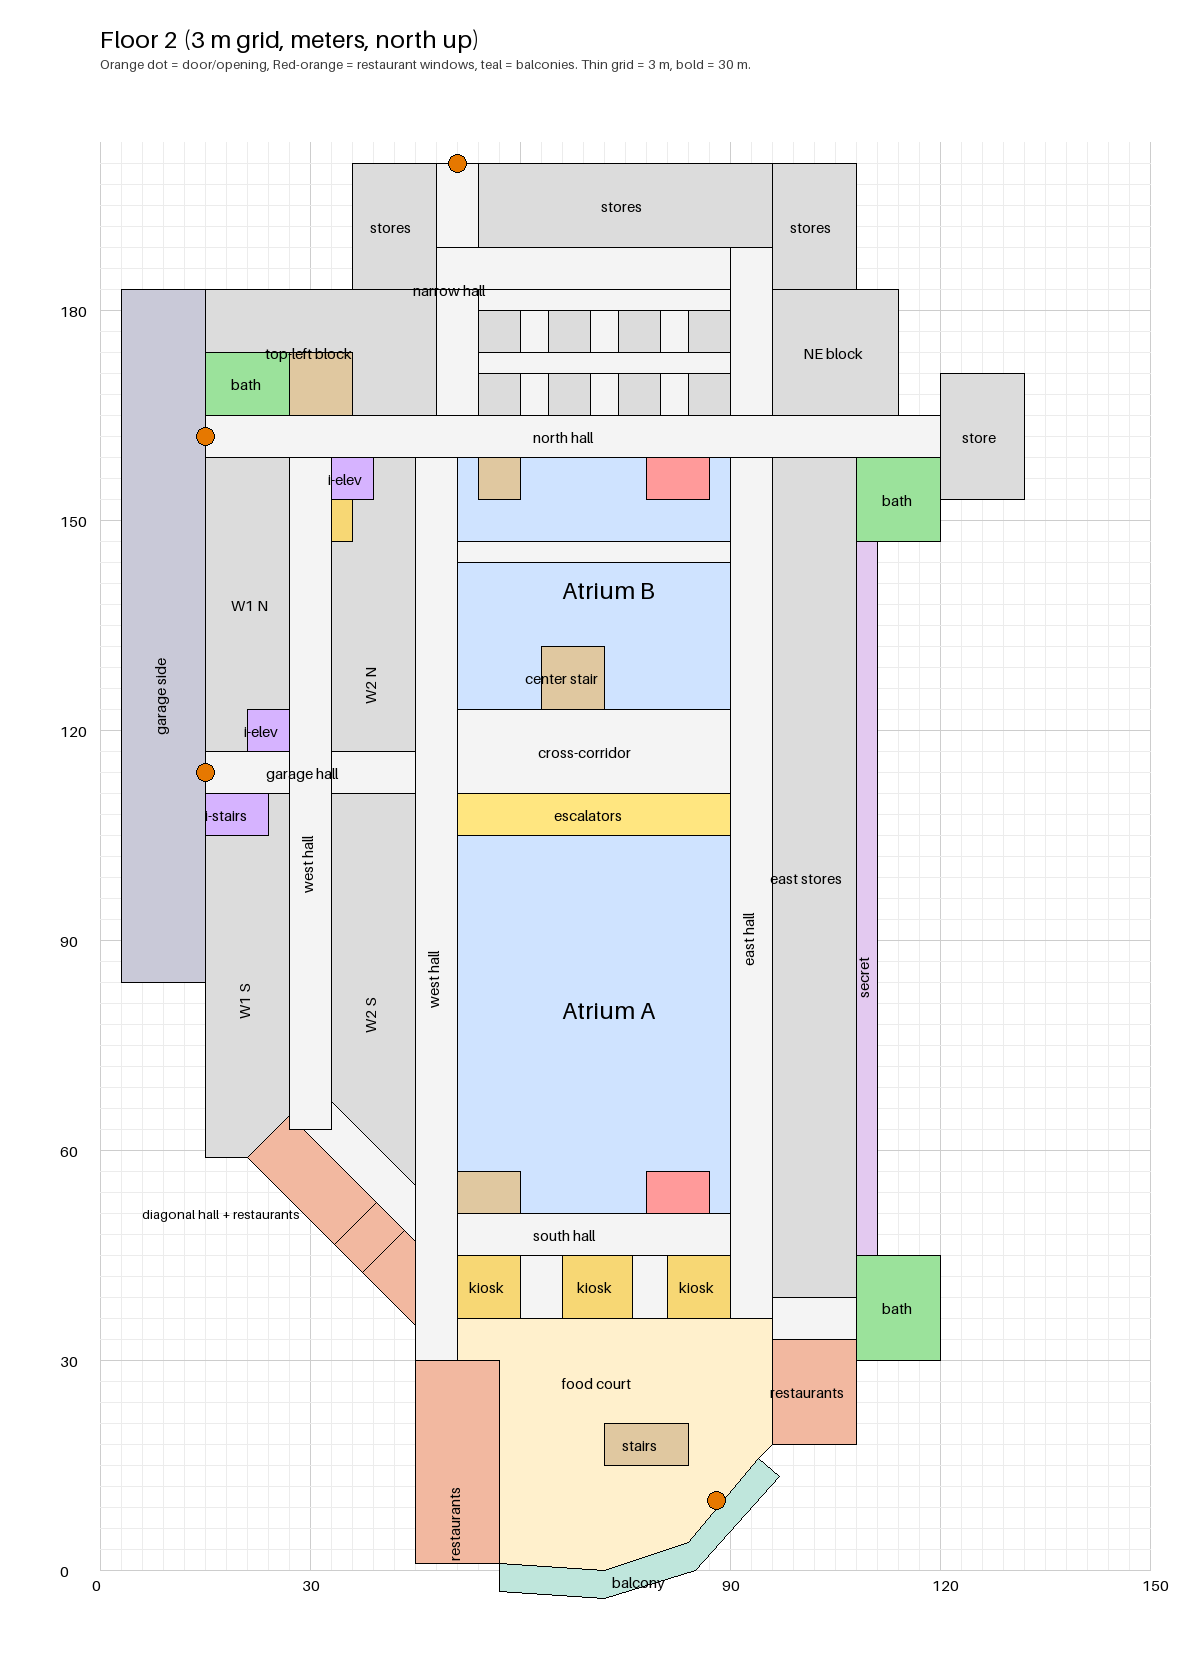
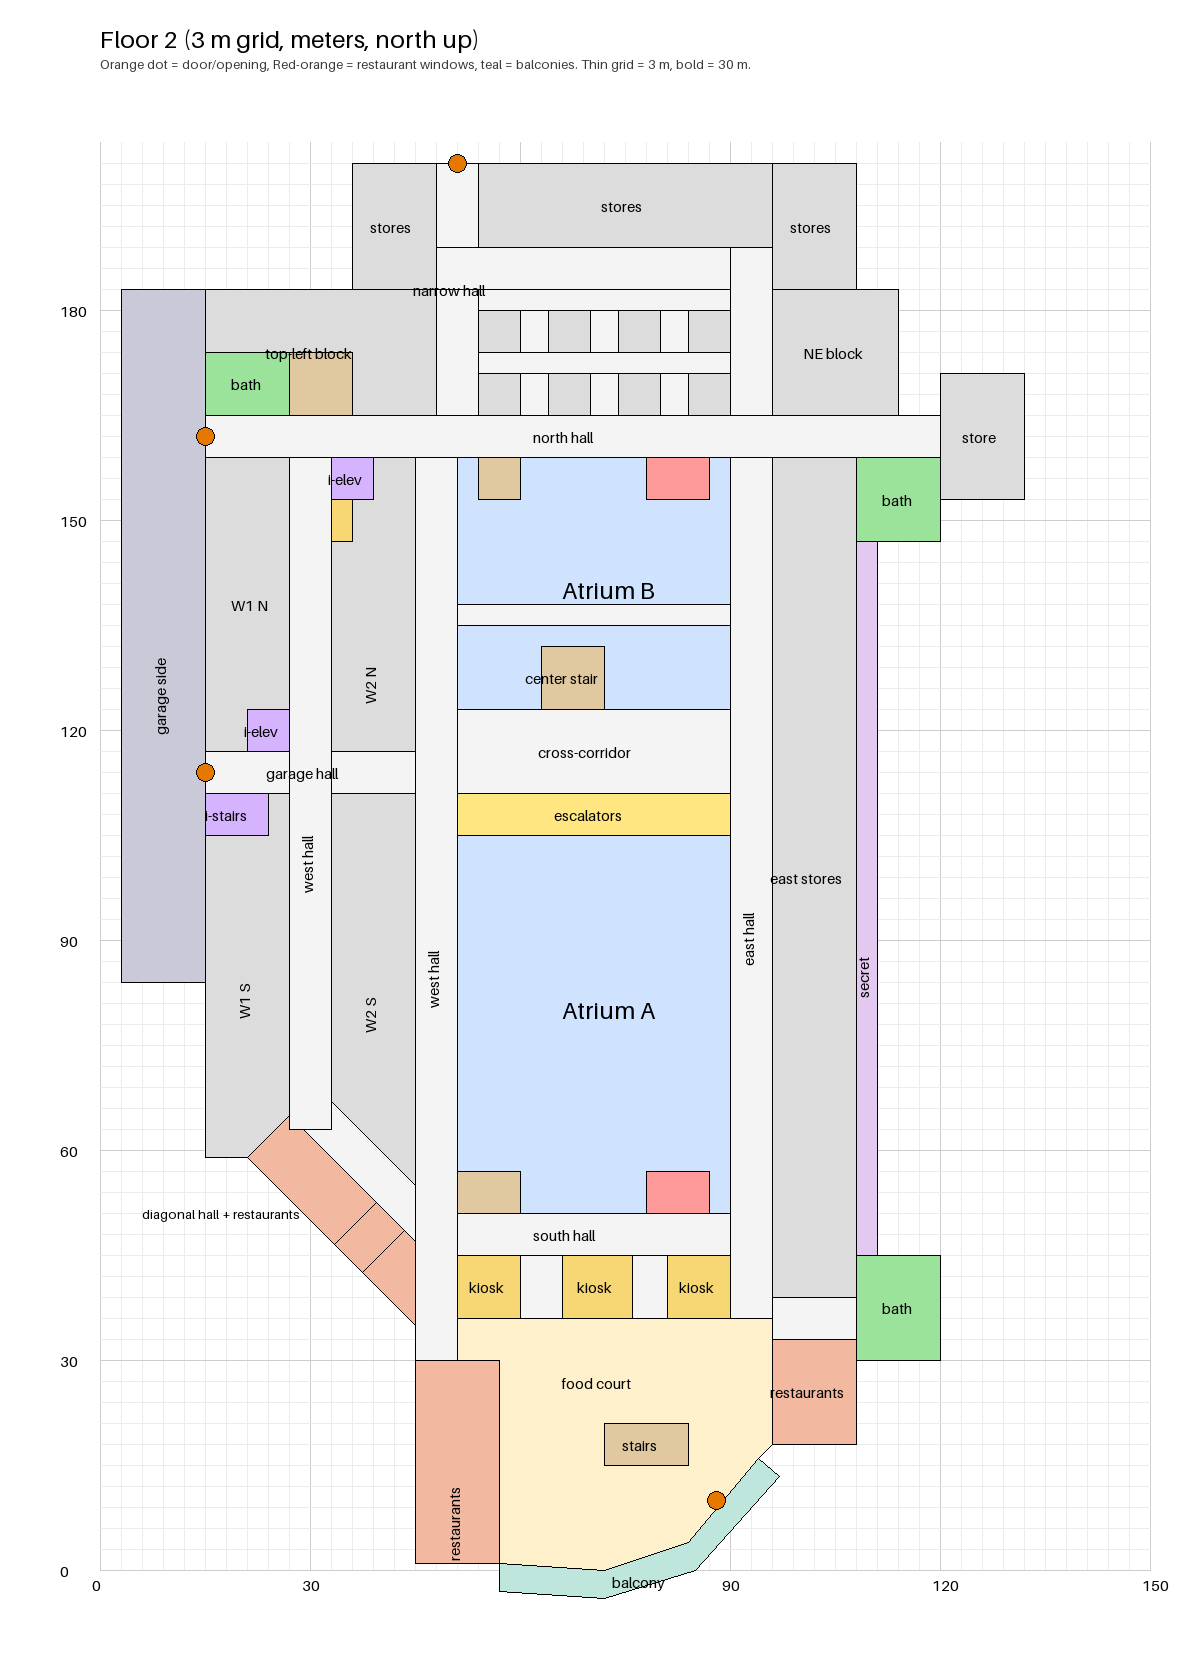
photo map update

Changed region(s): [[0.37, 0.3095, 0.6167, 0.3714]]

diff --git a/docs/floorplans/build_floorplans.py b/docs/floorplans/build_floorplans.py
@@ -207,7 +207,7 @@ def floor_items(floor):
         items.append(("main_entrance_kiosk", "Kiosk between the two main entrance doors", ("box", (87.5, 90.5, 8.5, 11.5)), "kiosk"))
         items.append(("bank", "Bank: first store east of the main entrance", ("box", (96, 108, 18, 27)), "shop"))
     if floor == 2:
-        items.append(("atrium_b_bridge", "Arched bridge (cross corridor) over Atrium B, floor 2", ("box", (51, 90, 144, 147)), "hall"))
+        items.append(("atrium_b_bridge", "Arched bridge (cross corridor) over Atrium B, floor 2", ("box", (51, 90, 135, 138)), "hall"))
     if floor == 3:
         # the west hall widens over the north-west corner of Atrium B; the cinema box office is there
         items.append(("boxoffice_floor", "West hall extension over the NW corner of Atrium B (cinema box office area)", ("box", (51, 57, 141, 153)), "hall"))

diff --git a/docs/floorplans/floor1_notes.md b/docs/floorplans/floor1_notes.md
@@ -183,9 +183,10 @@ On floor 3 the inner west hall extends east over the north-west corner of Atrium
 
 Applied after the photo map (`reference/photo_map.md`), all agreed by Augusto:
 
-- **Floor 2 bridge:** a 3 m wide arched bridge (cross corridor) over Atrium B, east to west (x 51 to 90, y 144 to 147), linking the west and east halls. Floor 2 only. The position along Atrium B is my choice.
+- **Floor 2 bridge:** a 3 m wide arched bridge (cross corridor) over Atrium B, east to west (x 51 to 90, y 135 to 138, the middle of Atrium B), linking the west and east halls. Floor 2 only. Position confirmed by Augusto.
 - **Main entrance (floor 1):** two folding glass doors (at about x 86.5, y 7 and x 91.5, y 13) with a 3 m kiosk between them (x 87.5 to 90.5, y 8.5 to 11.5). Floors 2 and 3 keep the single balcony door.
 - **Bank (floor 1):** the first store east of the main entrance, the south end of the east block (x 96 to 108, y 18 to 27).
 - **W2 N elevator bank:** a wood kiosk (x 33 to 36, y 147 to 153) just south of the intermittent elevator, facing the west hall, on all floors.
 - **Food court stairs (floors 2 and 3):** widened to 12 m x 6 m (x 72 to 84) for the wide curved stair. The plan still draws it as a box; the curve is for the blockout.
-- **Atrium roof:** nothing in the plan; Atrium B is assumed to have a roof like Atrium A's.
+- **Atrium roof:** nothing in the plan; Atrium B has the same truss roof as Atrium A (confirmed).
+- **Confirmed as drawn:** the two entrance doors either side of the kiosk along the diagonal wall, and the bank at the south end of the east block.

diff --git a/reference/photo_map.md b/reference/photo_map.md
@@ -60,5 +60,5 @@ Where each reference photo was taken, as confirmed by Augusto (the "same frame" 
 - **Main entrance:** the real entrance has two folding glass doors with a kiosk between them; the plan has one main-entrance door on floor 1.
 - **Bank at the lobby's east side:** the first store east of the main entrance is a bank, per the entrance photos.
 - **Elevator hall in W2 N:** the photos show a real elevator bank with a wood kiosk beside it in the W2 N corner; the plan has it as an intermittent elevator.
-- **Atrium roof:** only Atrium A's roof was confirmed; assume Atrium B's is similar until told otherwise.
+- **Atrium roof:** Atrium B has the same truss roof as Atrium A (confirmed).
 - **Food court stairs:** the photo shows a wide curved stair with black strips, not a simple box.
